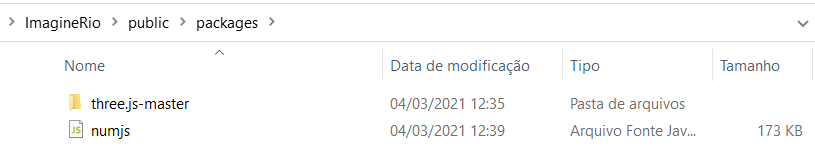
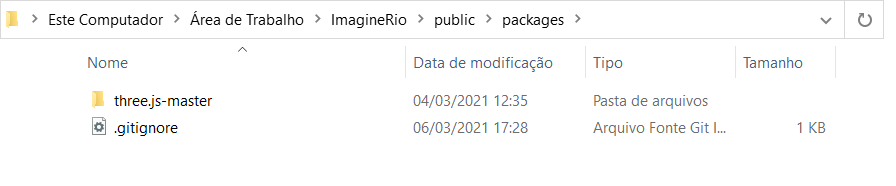
arrumando readme

diff --git a/public/code/scripts/cena3d.js b/public/code/scripts/cena3d.js
@@ -2,7 +2,7 @@
 
 // -----------------------
 // CONFIGURAÇÃO AMBIENTE 3D
-var cena, camera, renderizador, controles, regular;
+var cena, camera, renderizador, controles;
 var texCanvas = document.getElementById('texturaCanvas');
 // Função chamada após calibrar a câmera, fazendo o setup do ambiente 3D
 function iniciar(){
@@ -15,13 +15,6 @@ function iniciar(){
     );
     renderizador = new THREE.WebGLRenderer({ canvas: texCanvas });
     renderizador.setSize(texCanvas.width,texCanvas.height);
-    
-    // Posição improvisada da câmera
-    regular = 1/C.y;
-    camera.position.x = C.x*regular;
-    camera.position.y = C.y*regular;
-    camera.position.z = C.z*regular;
-    camera.lookAt(CO.x*regular,CO.y*regular,0);
     
     // Renderizar cena pela primeira vez
     renderizador.render(cena, camera);
@@ -101,5 +94,16 @@ function onWindowResize() {
     camera.updateProjectionMatrix();
     renderizador.setSize(texCanvas.width ,texCanvas.height);
 }
-
 window.addEventListener('resize', onWindowResize, false);
+
+// ATUALIZA CÂMERA
+function atualizaCamera(){
+    var centro = new THREE.Vector3();
+    for(var i=0; i<planos.length; i++){
+        for(var j=0; j<4; j++){
+            centro.addVectors(centro,planos[i].P[j]);
+        }
+    }
+    centro.multiplyScalar(1/(planos.length*4));
+    camera.lookAt(centro.x,centro.y,centro.z);
+}

diff --git a/public/code/scripts/calc.js b/public/code/scripts/calc.js
@@ -242,6 +242,7 @@ function extrairTextura(mouse){
 
             // Colocar os dados no canvas
             adicQuadrilatero(novoPlano);
+            atualizaCamera();
 
             // Atualizar pontosExtrair para receber próximos pontos
             pontosExtrair = [];

diff --git a/README.md b/README.md
@@ -4,23 +4,22 @@ Repositório criado para armazenar o código realizado ao projeto ImagineRio.
 
 ## Instalando os requerimentos (Windows)
 
-Para o arquivo .html rodar corretamente são necessárias duas coisas: instalar o Node e os pacotes utilizados no Javascript (numjs e threejs). Com isso, seguem abaixo os links onde você consegue achar esses arquivos.
+Para o arquivo .html rodar corretamente são necessárias duas coisas: instalar o Node e o pacote threejs utilizado no Javascript. Com isso, seguem abaixo os links onde você pode baixá-los.
 
 ### Node
 
-O Node possui diversas versões. A utilizada neste projeto é a v10 de 2018 devido à próxima versão não fornecer compatibilidade com o numjs. Com isso, uma boa prática para manter diversas versões do Node no computador chama-se Node Version Manager (NVM). Contanto, a instalação do NVM é opcional e você pode apenas instalar o Node.
+O Node possui diversas versões. Uma boa prática para manter diversas versões do Node no computador chama-se Node Version Manager (NVM). Contanto, a instalação do NVM é opcional e você pode apenas instalar o Node.
 
 - Para adquirir o NVM: https://github.com/coreybutler/nvm-windows/releases/tag/1.1.7;
-- Para instalar o node v10: https://nodejs.org/dist/latest-v10.x/win-x64/;
+- Para instalar o Node: https://nodejs.org/en/;
 
 ### Pacotes JavaScript
 
 Os pacotes utilizados no projeto foram escolhidos de maneira a facilitar o trabalho. Seguem abaixo as descrições:
 
-- Criar um arquivo Javascript chamado "numjs.js" com o conteúdo de https://cdn.jsdelivr.net/gh/nicolaspanel/numjs@0.15.1/dist/numjs.min.js;
 - O threejs pode ser adquirido pela pasta descompactada do zip que se encontra em https://threejs.org/;
 
-Com isso, esse arquivo e essa pasta devem se encontrar dentro do diretório "public/packages", como será mostrado na próxima seção.
+Com isso, a pasta baixada deve se encontrar dentro do diretório "public/packages", como será mostrado na próxima seção.
 
 ### Verificando a instalação
 
